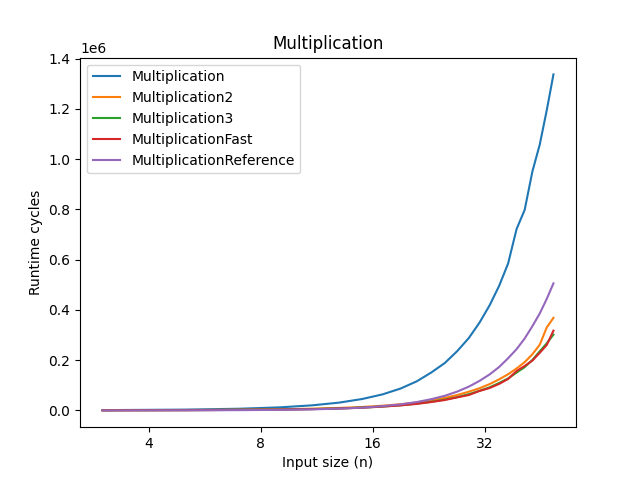
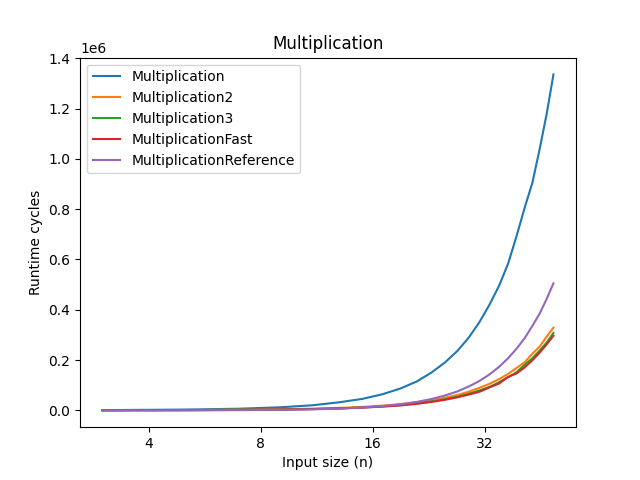
Fix multiplication flop count

diff --git a/src/benchmark.cpp b/src/benchmark.cpp
@@ -71,36 +71,42 @@ unsigned int get_optimized_addition_flops(int a_length, int b_length, int result
 
 unsigned int get_multiplication_flops(int expansion_length)
 {
-    /*return expansion_length * (expansion_length + 1) / 2 * TWO_MULT_FMA_FLOPS +
-           (expansion_length / 2) * get_vec_sum_flops(expansion_length) +
-           (expansion_length - 1) * 2 +
-           pow(expansion_length, 2) +
-           get_renormalization_flops(expansion_length + 1, expansion_length);*/
-    // new flop count implementation
-    int flops = 0;
-    flops += TWO_MULT_FMA_FLOPS;
+    int flops = TWO_MULT_FMA_FLOPS;
+
     for (int n = 0; n < expansion_length; n++)
     {
         for (int i = 0; i <= n; i++)
         {
             flops += TWO_MULT_FMA_FLOPS;
         }
+
         flops += get_vec_sum_flops(n * n + n + 1);
-        flops += n * n + 2 * n;
     }
 
-    flops += expansion_length * 3 + 2 * expansion_length * expansion_length;
+    flops += (expansion_length - 1) * 2 + expansion_length * expansion_length;
     flops += get_renormalization_flops(expansion_length + 1, expansion_length);
+
     return flops;
 }
 
 unsigned int get_optimized_multiplication_flops(int expansion_length)
 {
-    return expansion_length * (expansion_length + 1) / 2 * TWO_MULT_FMA_FLOPS +
-           (expansion_length / 2) * get_vec_sum_flops(expansion_length) +
-           (expansion_length - 1) * 2 +
-           pow(expansion_length, 2) +
-           get_optimized_renormalization_flops(expansion_length + 1, expansion_length);
+    int flops = TWO_MULT_FMA_FLOPS;
+
+    for (int n = 0; n < expansion_length; n++)
+    {
+        for (int i = 0; i <= n; i++)
+        {
+            flops += TWO_MULT_FMA_FLOPS;
+        }
+
+        flops += get_vec_sum_flops(n * n + n + 1);
+    }
+
+    flops += (expansion_length - 1) * 2 + expansion_length * expansion_length;
+    flops += get_optimized_renormalization_flops(expansion_length + 1, expansion_length);
+
+    return flops;
 }
 
 unsigned int get_multiplication2_flops(int expansion_length)
@@ -139,10 +145,30 @@ unsigned int get_fast_addition_flops(int a_length, int b_length, int result_leng
     return get_fast_renormalization_flops(a_length + b_length, result_length);
 }
 
+unsigned int get_fast_multiplication_flops(int expansion_length)
+{
+    int flops = TWO_MULT_FMA_FLOPS;
+
+    for (int n = 0; n < expansion_length; n++)
+    {
+        for (int i = 0; i <= n; i++)
+        {
+            flops += TWO_MULT_FMA_FLOPS;
+        }
+
+        flops += get_fast_vec_sum_flops(n * n + n + 1);
+    }
+
+    flops += (expansion_length - 1) * 2 + expansion_length * expansion_length;
+    flops += get_fast_renormalization_flops(expansion_length + 1, expansion_length);
+
+    return flops;
+}
+
 template <int Term_count>
 unsigned int get_multiplication_reference_flops()
 {
-    calculate_multiplication_flops<Term_count, Term_count, Term_count>();
+    return calculate_multiplication_flops<Term_count, Term_count, Term_count>();
 }
 
 unsigned int get_truncatedMul_flops(int expansion_length)
@@ -594,14 +620,14 @@ int main()
     benchmark_addition(output_file, addition_fast2, "AdditionFast2", get_fast_addition_flops);
     benchmark_addition_reference(output_file);
 
-    // Multiplication
+    // // Multiplication
     benchmark_multiplication(output_file);
     benchmark_multiplication(output_file, multiplication2, "Multiplication2",
                              get_optimized_multiplication_flops);
     benchmark_multiplication(output_file, multiplication3, "Multiplication3",
                              get_optimized_multiplication_flops);
     benchmark_multiplication(output_file, multiplication_fast, "MultiplicationFast",
-                             get_optimized_multiplication_flops);
+                             get_fast_multiplication_flops);
     benchmark_multiplication_reference(output_file);
 
     // Multiplication2

diff --git a/asl_project/flops.py b/asl_project/flops.py
@@ -43,18 +43,16 @@ def multiplication_flops(k):
             flops += 3
 
         flops += vec_sum_flops(n**2 + n + 1)
-        flops+= n**2 +2*n
 
     for i in range(1, k):
-        flops += 3
+        flops += 2
 
     for i in range(0, k**2):
-        flops += 2
+        flops += 1
 
     flops += renormalization_flops(k + 1, k)
 
     return flops
-
 
 
 def multiplication(expansion_length):

diff --git a/asl_project/plot.py b/asl_project/plot.py
@@ -16,7 +16,8 @@ BANDWIDTH = 18.7  # Bytes/cycle
 PERFORMANCE_BOUND = 6  # flops/cycle
 PERFORMANCE_BOUND_SIMD = 24  # flops/cycle
 
-ALGORITHM_FILTER = None
+# Change it to, e.g., "Addition" or "Multiplication" to only show those graphs
+ALGORITHM_FILTER = "Addition"
 
 script_path = Path(__file__).parent.resolve()
 results_path = path.join(script_path, "..", "results")
